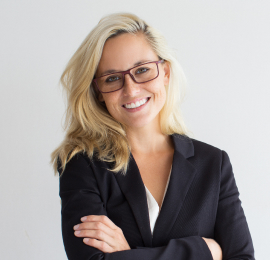
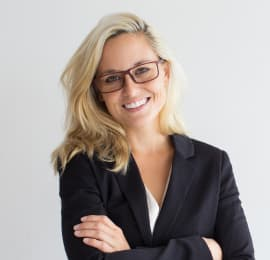
new img

diff --git a/index.html b/index.html
@@ -68,13 +68,13 @@
                     <h2 class="studio_title">Чим ми займаємося</h2>
                     <div class="studio_div_pics">
                         <div class="studio_div_image" >
-                            <img class="studio_image" src="./IMG/img1.png" alt="img1" >
+                            <img class="studio_image" src="./IMG/img1.jpg" alt="img1" >
                         </div>
                         <div class="studio_div_image" >
-                            <img  src="./IMG/img2.png" alt="img2" >
+                            <img  src="./IMG/img2.jpg" alt="img2" >
                         </div>
                         <div class="studio_div_image">
-                            <img  class="studio_image" src="./IMG/img3.png" alt="img3">
+                            <img  class="studio_image" src="./IMG/img3.jpg" alt="img3">
                         </div>
                     </div>
             </div>
